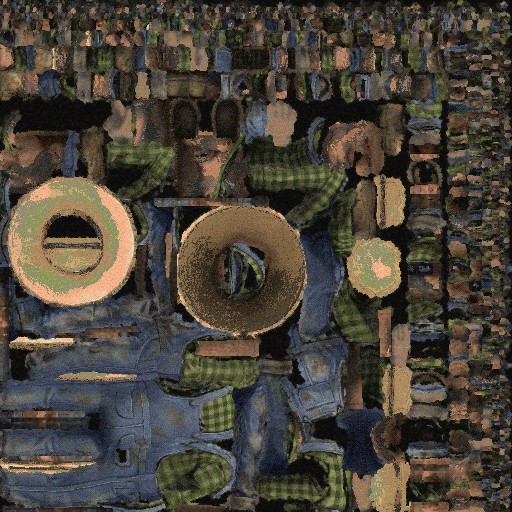
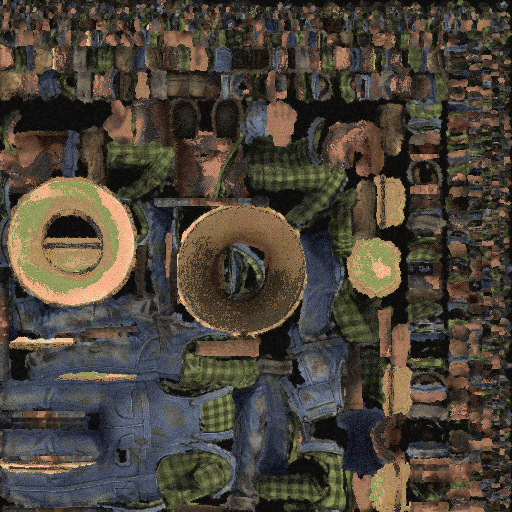
Meshy models: skin coloured for the palette's smooth ramp; large hand sheets; clone 04d

diff --git a/meshy/tools/build_actor.py b/meshy/tools/build_actor.py
@@ -2109,6 +2109,13 @@ def hand_match(px):
         have = numpy.median(rgb[hsel], axis=0)
         rgb[hm] = numpy.clip(rgb[hm] * (want / numpy.maximum(have, 1e-4))[None, :], 0, 1)
         print("MESHY hands matched to the body's skin", numpy.round(want * 255).astype(int))
+    # Skin a little more coloured than Meshy paints it: a pale, greyish skin
+    # falls between the palette's entries and dithers into beige and teal
+    # blotches; a third more colour lands on its smooth brown ramp.
+    k_s = float(CFG.get("skin_sat", 1.3))
+    sk_m = (SKIN_DONE | hm)
+    grey = rgb[sk_m].mean(axis=1, keepdims=True)
+    rgb[sk_m] = numpy.clip(grey + (rgb[sk_m] - grey) * k_s, 0, 1)
     px[:, :3] = rgb
     return px
 
